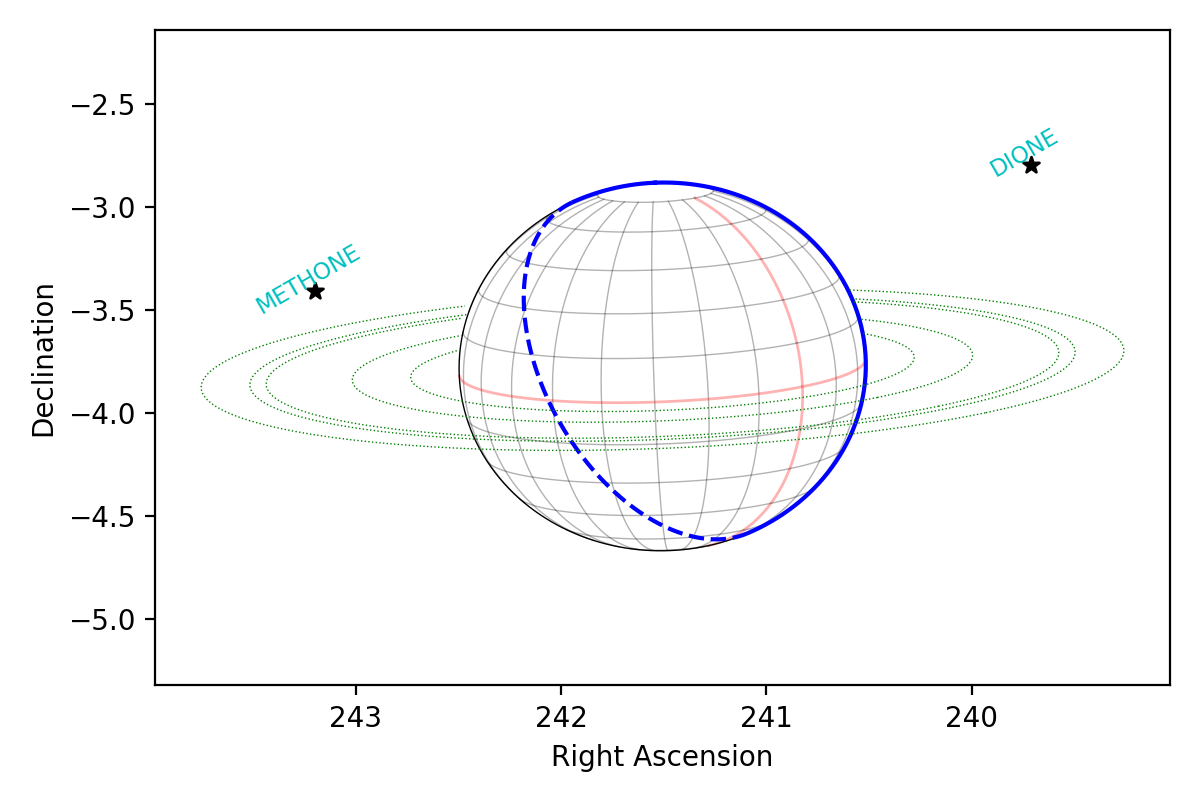
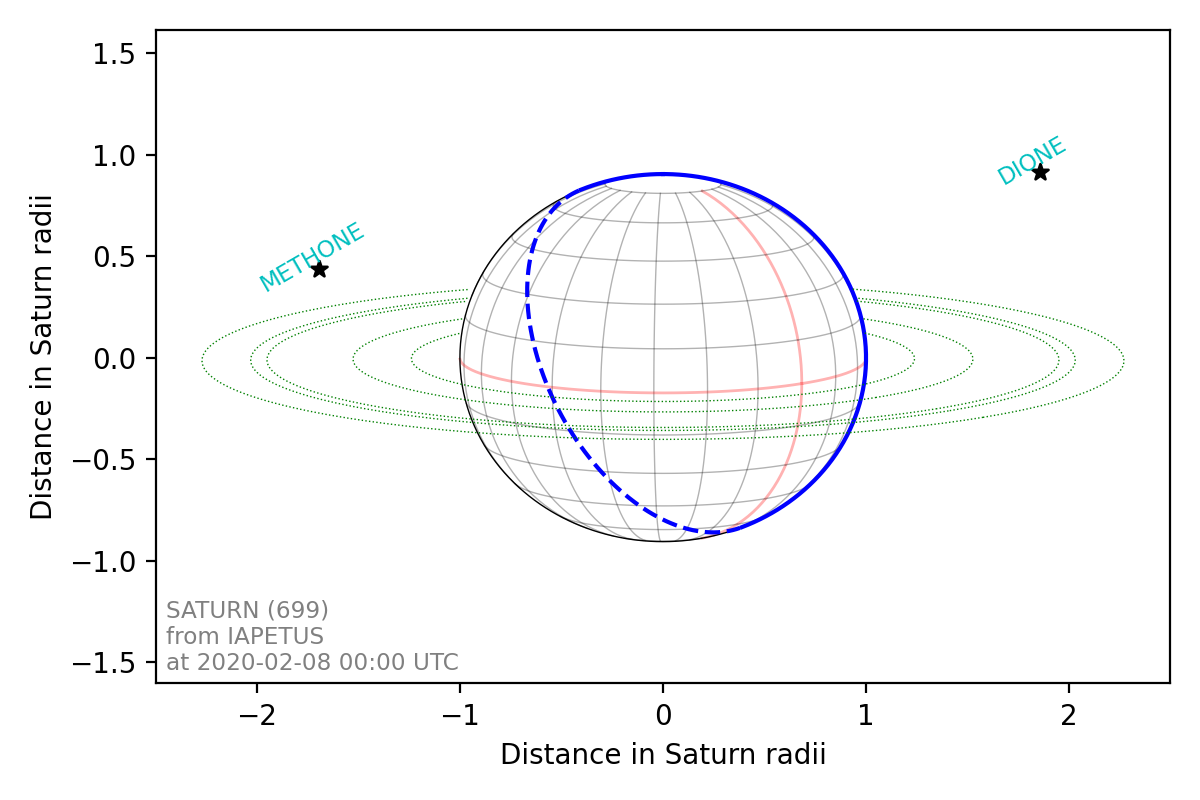
Update documentation for new `scale_factor`

diff --git a/planetmapper/body.py b/planetmapper/body.py
@@ -2464,6 +2464,11 @@ class Body(BodyBase):
         :func:`BodyXY.plot_wireframe_xy` to plot the wireframe in other coordinate
         systems.
 
+        .. hint::
+
+            See :ref:`the examples page <wireframes>` for more examples of creating
+            wireframe plots.
+
         To plot a wireframe with the default appearance, simply use: ::
 
             body.plot_wireframe_radec()
@@ -2471,11 +2476,11 @@ class Body(BodyBase):
         To customise the appearance of the plot, you can use the `formatting` and
         `**kwargs` arguments which can be used to pass arguments to the Matplotlib
         plotting functions. The `formatting` argument can be used to customise
-        individual components, and the `**kwargs` argument can be used to customise
-        all components at once.
+        individual components, and the `**kwargs` argument can be used to customise all
+        components at once.
 
-        For example, to change the colour of the entire wireframe to red, you can
-        use: ::
+        For example, to change the colour of the entire wireframe to red, you can use:
+        ::
 
             body.plot_wireframe_radec(color='r')
 
@@ -2483,20 +2488,18 @@ class Body(BodyBase):
 
             body.plot_wireframe_radec(
                 formatting={
-                    'terminator': {'color': 'r'},
-                    'limb_illuminated': {'color': 'r'},
+                    'terminator': {'color': 'r'}, 'limb_illuminated': {'color': 'r'},
                 },
             )
 
         The order of precedence for the formatting is the `formatting` argument, then
-        `**kwargs`, then the default formatting. For example, the following plot will
-        be red with a thin blue grid and green poles: ::
+        `**kwargs`, then the default formatting. For example, the following plot will be
+        red with a thin blue grid and green poles: ::
 
             body.plot_wireframe_radec(
-                color='r',
-                formatting={
-                    'grid': {'color': 'b', 'linewidth': 0.5, 'linestyle': '-'},
-                    'pole': {'color': 'g'},
+                color='r', formatting={
+                    'grid': {'color': 'b', 'linewidth': 0.5, 'linestyle': '-'}, 'pole':
+                    {'color': 'g'},
                 },
             )
 
@@ -2533,10 +2536,11 @@ class Body(BodyBase):
 
         .. warning::
 
-            The plot may appear warped or distorted if the target is near the celestial
-            pole (i.e. the target's declination is near 90° or -90°). This is due to the
-            spherical nature of the RA/Dec coordinate system, which is impossible to
-            represent perfectly on a 2D cartesian plot.
+            Even though the numerical values will be correct, the plot may appear warped
+            or distorted if the target is near the celestial pole (i.e. the target's
+            declination is near 90° or -90°). This is due to the spherical nature of the
+            RA/Dec coordinate system, which is impossible to represent perfectly on a 2D
+            cartesian plot.
 
             :func:`plot_wireframe_angular` can be used as an alternative to
             :func:`plot_wireframe_radec` to plot the wireframe without distortion from
@@ -2545,7 +2549,7 @@ class Body(BodyBase):
             origin and rotation of the `angular` coordinates can also be customised as
             needed (e.g. to align it with an instrument's field of view).
 
-        .. hint::
+        .. note::
 
             If the target body is near RA=0°, then the wireframe may be split over two
             halves of the plot. This can be fixed by using
@@ -2560,13 +2564,13 @@ class Body(BodyBase):
                 can be used to change units of the plot. If `scale_factor` is used, the
                 plotted coordinates will be multiplied by `scale_factor` before
                 plotting. See the examples above for more details.
-            label_poles: Toggle labelling the poles of the target body.
-            add_title: Add title generated by :func:`get_description` to the axis.
-            add_axis_labels: Add axis labels to the plot. If `add_axis_labels` is None
+            label_poles: Toggle labelling the poles of the target body. add_title: Add
+            title generated by :func:`get_description` to the axis. add_axis_labels: Add
+            axis labels to the plot. If `add_axis_labels` is None
                 (the default), then labels will only be added if `scale_factor` is not
                 used.
-            grid_interval: Spacing between grid lines in degrees.
-            grid_lat_limit: Latitude limit for gridlines. For example, if
+            grid_interval: Spacing between grid lines in degrees. grid_lat_limit:
+            Latitude limit for gridlines. For example, if
                 `grid_lat_limit=60`, then gridlines will only be plotted for latitudes
                 between 60°N and 60°S (inclusive). This can be useful to reduce visual
                 clutter around the poles.

diff --git a/examples/general_python_api.py b/examples/general_python_api.py
@@ -26,7 +26,7 @@ def main():
     # plot_neptune_wireframe()
     # plot_jupiter_wireframe()
     # plot_uranus_wireframe_comparison()
-    # plot_saturn_wireframe_formatting()
+    plot_saturn_wireframe_formatting()
     # plot_europa_backplane()
     # plot_jupiter_backplane()
     # plot_jupiter_mapped()
@@ -151,10 +151,10 @@ def plot_saturn_wireframe_formatting():
 
     body = planetmapper.Body('saturn', '2020-02-08', observer='iapetus')
     body.add_other_bodies_of_interest('dione', 'methone')
-    body.plot_wireframe_radec(
+    body.plot_wireframe_km(
         ax,
+        scale_factor=1 / body.r_eq,  # use units of Saturn radii rather than km
         add_title=False,
-        dms_ticks=False,
         label_poles=False,
         indicate_equator=True,
         indicate_prime_meridian=True,
@@ -170,6 +170,15 @@ def plot_saturn_wireframe_formatting():
             'other_body_of_interest_marker': {'marker': '*'},
             'other_body_of_interest_label': {'color': 'c', 'rotation': 30, 'alpha': 1},
         },
+    )
+    ax.set_xlabel('Distance in Saturn radii')
+    ax.set_ylabel('Distance in Saturn radii')
+    ax.annotate(
+        body.get_description(),
+        (0.01, 0.02),
+        xycoords='axes fraction',
+        color='0.5',
+        size='small',
     )
 
     fig.tight_layout()

diff --git a/docs/general_python_api.rst b/docs/general_python_api.rst
@@ -100,6 +100,9 @@ More complex plots can also be created using the functionality in :class:`planet
     :alt: Plot of Neptune
 
 
+Wireframe plot variants
+-----------------------
+
 A number of different wireframe plotting options are available:
 
 - :func:`planetmapper.Body.plot_wireframe_radec` plots in RA/Dec coordinates
@@ -107,7 +110,7 @@ A number of different wireframe plotting options are available:
 - :func:`planetmapper.Body.plot_wireframe_angular` plots in a frame showing angular distances from the the target body
 - :func:`planetmapper.BodyXY.plot_wireframe_xy` plots in image x and y coordinates
 
-`plot_wireframe_km` is particularly useful for comparing observations taken at different times, as it standardises the position, orientation and size of the target body. The example below shows multiple observations of Jupiter and Io taken over the space of a few hours. Jupiter moves across the the RA/Dec plot (top), but stays fixed in the km plot (bottom), making it easier to see the relative motion of Io: ::
+:func:`planetmapper.Body.plot_wireframe_km` is particularly useful for comparing observations taken at different times, as it standardises the position, orientation and size of the target body. The example below shows multiple observations of Jupiter and Io taken over the space of a few hours. Jupiter moves across the the RA/Dec plot (top), but stays fixed in the km plot (bottom), making it easier to see the relative motion of Io: ::
 
     import planetmapper
     import matplotlib.pyplot as plt
@@ -140,7 +143,7 @@ A number of different wireframe plotting options are available:
     :alt: Plot of Jupiter and Io
 
 
-The example below shows how the the same target appears in the `radec`, `km` and `angular` wireframe variants. By default, `plot_wireframe_angular` is centred on the target body, but it can also be customised to have a custom origin and rotation - for example, the fourth plot below is centred on Miranda and rotated by 45°. In addition to the variants shown here, `plot_wireframe_xy` is also available for use with :class:`planetmapper.BodyXY` objects to plot in image pixel coordinates (see the Observations section below).
+The example below shows how the the same target appears in the `radec`, `km` and `angular` wireframe variants. By default, :func:`planetmapper.Body.plot_wireframe_angular` is centred on the target body, but it can also be customised to have a custom origin and rotation - for example, the fourth plot below is centred on Miranda and rotated by 45°. In addition to the variants shown here, :func:`planetmapper.BodyXY.plot_wireframe_xy` is also available for use with :class:`planetmapper.BodyXY` objects to plot in image pixel coordinates (see the Observations section below).
 
 ::
 
@@ -185,7 +188,10 @@ The example below shows how the the same target appears in the `radec`, `km` and
     :alt: Four different wireframe plots of Uranus
 
 
-The appearance of wireframe plots can be fully customised to suit your needs. For example, the example below shows how the `formatting` argument is used to pass arguments to matplotlib when plotting the individual elements of the wireframe. See :func:`planetmapper.Body.plot_wireframe_radec` for more details on formatting individual plots, and changing the default formatting for all wireframe plots.
+Customising wireframe plots
+---------------------------
+
+The appearance and units of wireframe plots can be fully customised to suit your needs. For example, the code below shows how the `scale_factor` argument is used to customise the coordinate units, and the `formatting` argument is used to pass arguments to matplotlib when plotting the individual elements of the wireframe. See :func:`planetmapper.Body.plot_wireframe_radec` for more details on formatting individual plots, and changing the default formatting for all wireframe plots.
 
 ::
     
@@ -194,9 +200,10 @@ The appearance of wireframe plots can be fully customised to suit your needs. Fo
 
     body = planetmapper.Body('saturn', '2020-02-08', observer='iapetus')
     body.add_other_bodies_of_interest('dione', 'methone')
-    body.plot_wireframe_radec(
+    body.plot_wireframe_km(
+        ax,
+        scale_factor=1 / body.r_eq,  # use units of Saturn radii rather than km
         add_title=False,
-        dms_ticks=False,
         label_poles=False,
         indicate_equator=True,
         indicate_prime_meridian=True,
@@ -212,6 +219,15 @@ The appearance of wireframe plots can be fully customised to suit your needs. Fo
             'other_body_of_interest_marker': {'marker': '*'},
             'other_body_of_interest_label': {'color': 'c', 'rotation': 30, 'alpha': 1},
         },
+    )
+    ax.set_xlabel('Distance in Saturn radii')
+    ax.set_ylabel('Distance in Saturn radii')
+    ax.annotate(
+        body.get_description(),
+        (0.01, 0.02),
+        xycoords='axes fraction',
+        color='0.5',
+        size='small',
     )
     plt.show()
 
